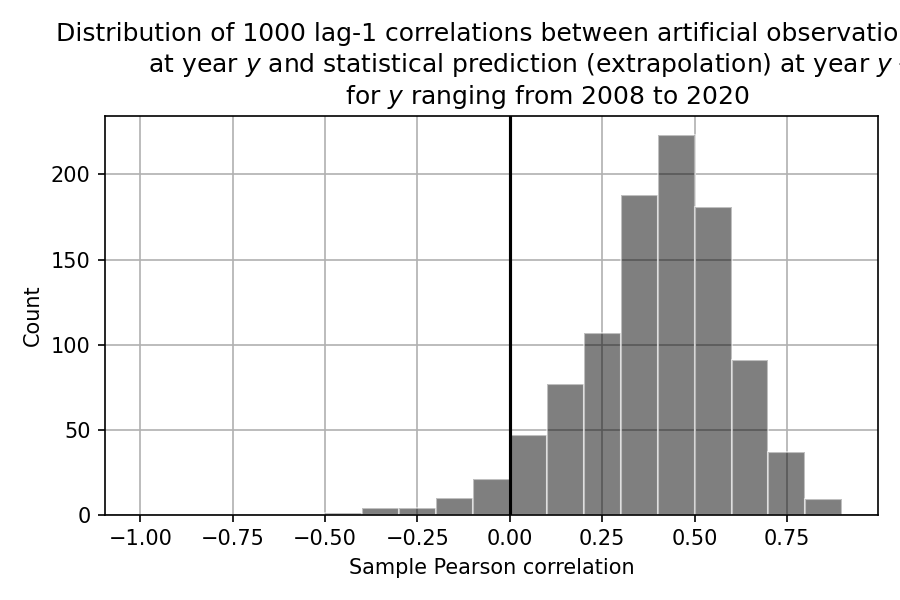
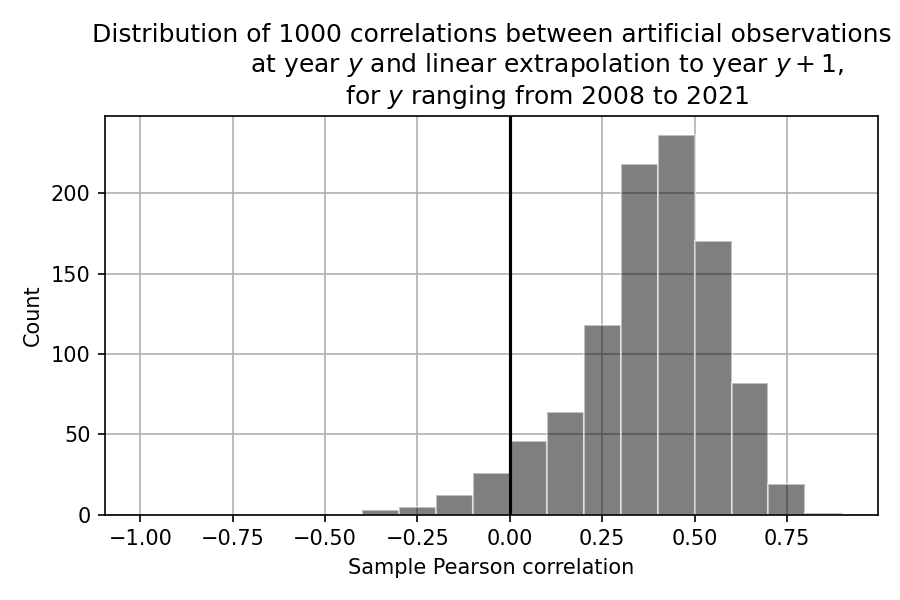
update understanding.py

diff --git a/understanding.py b/understanding.py
@@ -10,21 +10,23 @@ import matplotlib.pyplot as plt
 
 #np.random.seed(0)
 # Understanding the origin of correlation between previous year observed
-# and next year observed extent
+# and next year forecasted extent
 
 # Strategy: 1/ generate a synthetic time series of length N
-#           2/ Extrapolate the time series linearly or quadratically to N+ 1
+#           2/ Extrapolate the time series linearly or quadratically to N + 1
 #           3/ Correlate the extrapolation with the Nth element of the series
 #           4/ Repeat many times
 
 # Order for trend extrapolation
-order = 1 
+order = 0 
 
+# First year of time series
 yearb  = 1979
+
 # First year an outlook was collected
 yearbo = 2008 
 # Last year an outlook was collected
-yeareo = 2020 
+yeareo = 2022
 
 # Number of years
 N = yeareo - yearb + 1
@@ -69,9 +71,9 @@ for jMC in range(nMC):
 
     
     
-fig, ax = plt.subplots(1, 1, dpi = 50)
-ax.set_title("Distribution of " + str(nMC) + " lag-1 correlations between artificial observations\n \
-             at year $y$ and statistical prediction (extrapolation) at year $y+1$,\n \
+fig, ax = plt.subplots(1, 1, dpi = 150, figsize = (6, 4))
+ax.set_title("Distribution of " + str(nMC) + " correlations between artificial observations\n \
+             at year $y$ and linear extrapolation to year $y+1$,\n \
              for $y$ ranging from " + str(yearbo) + " to " + str(yeareo - 1))
 h = ax.hist(correlations, bins = np.arange(-1, 1, 0.1), color = "black", \
             alpha = 0.5, edgecolor = "white")
@@ -83,7 +85,6 @@ ax.set_ylim(0.0, 1.05 * np.max(h[0]))
 ax.set_axisbelow(True)
 fig.tight_layout()
 fig.savefig("./fig.png")
-fig.show()
 
 
 
